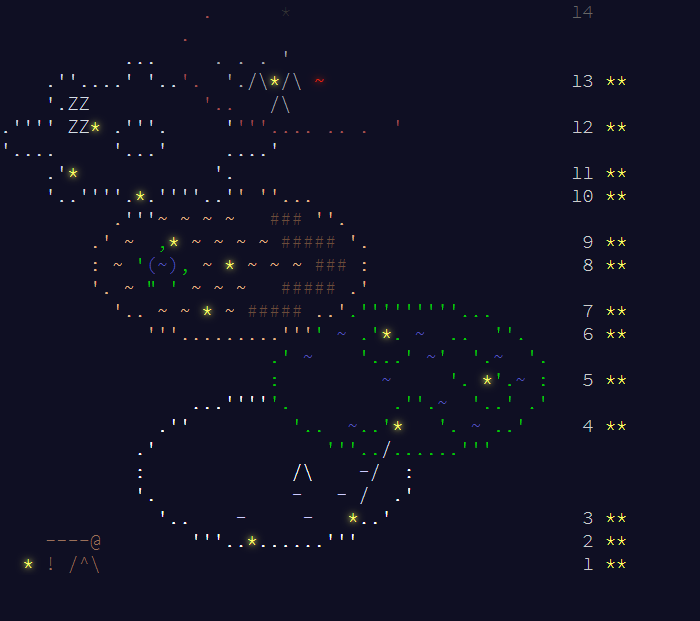
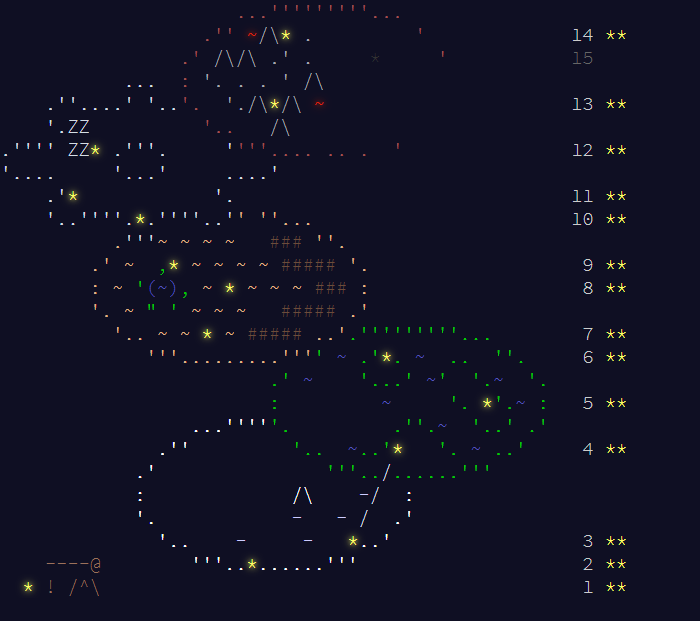
Day 14

diff --git a/2023/main_page/aoc/index_14.html b/2023/main_page/aoc/index_14.html
@@ -1,0 +1,102 @@
+<!DOCTYPE html>
+<html lang="en-us">
+<head>
+<meta charset="utf-8"/>
+<title>Advent of Code 2023</title>
+<!--[if lt IE 9]><script src="html5.js"></script><![endif]-->
+<link href='SourceCodePro.css' rel='stylesheet' type='text/css'>
+<link rel="stylesheet" type="text/css" href="style.css"/>
+<link rel="stylesheet alternate" type="text/css" href="highcontrast.css?0" title="High Contrast"/>
+<link rel="shortcut icon" href="favicon.png"/>
+</head><body>
+<main>
+<style>
+.calendar .calendar-color-l { color:#ccccff; }
+.calendar .calendar-color-g { color:#00cc00; }
+.calendar .calendar-color-n { color:#9b715b; }
+.calendar .calendar-color-a { color:#a5a8af; }
+.calendar .calendar-color-b { color:#5555bb; }
+.calendar .calendar-color-i { color:#a25151; }
+.calendar .calendar-color-s { color:#e3b585; }
+.calendar .calendar-color-w { color:#ffffff; }
+.calendar .calendar-color-k { color:#6b4d3b; }
+.calendar .calendar-color-y { color:#ffff66; text-shadow:0 0 5px #ffff66, 0 0 10px #ffff66; }
+.calendar .calendar-color-v { color:#df2308; text-shadow:0 0 5px #df2308, 0 0 10px #df2308; }
+.calendar .calendar-color-m { color:#d4dde4; }
+</style>
+<pre class="calendar"><a aria-label="Day 14, two stars" href="day_14.html" class="calendar-day14 calendar-verycomplete">                     <span class="calendar-color-i">...'''''''''...</span>                    
+                  <span class="calendar-color-i">.''</span> <span class="calendar-color-v">~</span><span class="calendar-color-a">/\</span><span class="calendar-color-y">*</span> <span class="calendar-color-a">.</span>         <span class="calendar-color-i">'</span>             <span class="calendar-day">14</span> <span class="calendar-mark-complete">*</span><span class="calendar-mark-verycomplete">*</span></a>
+<span aria-hidden="true" class="calendar-day15">                <span class="calendar-color-i">.'</span> <span class="calendar-color-a">/\/\</span> <span class="calendar-color-a">.'</span> <span class="calendar-color-a">.</span>     *     <span class="calendar-color-i">'</span>           <span class="calendar-day">15</span><span id="calendar-countdown"></span><script>
+(function(){
+var countdown = document.getElementById("calendar-countdown");
+if (!countdown) return;
+var server_eta = 84981;
+var key = "2023-15-"+server_eta;
+var now = Math.floor(new Date().getTime()/1000);
+var target = server_eta + now;
+if (sessionStorage) {
+  // if you navigate away and hit the back button, this makes sure the countdown doesn't start from the wrong time
+  var prev_target = sessionStorage.getItem("calendar-target");
+  try { prev_target = JSON.parse(prev_target); } catch(e){}
+  if (prev_target && typeof prev_target === 'object' && prev_target.key === key) {
+    target = prev_target.target;
+  } else {
+    sessionStorage.setItem("calendar-target", JSON.stringify({key:key, target:target+1}));
+  }
+}
+
+var interval = null;
+function update_countdown() {
+  var remaining = Math.ceil(target - new Date().getTime()/1000);
+  if (remaining <= 0) {
+    clearInterval(interval);
+    interval = null;
+    countdown.textContent = "";
+
+    var a = document.createElement("a");
+    a[String.fromCharCode(104,114,101,102)] = "/2023" + String.fromCharCode(47,100,97,121,47) + "15";
+    a.className = "calendar-day15 calendar-day-new";
+    var span = countdown.parentNode;
+    while (span.firstChild) {
+      a.appendChild(span.firstChild);
+    }
+    a.appendChild(document.createTextNode("   "));
+    span.parentNode.insertBefore(a, span);
+    span.parentNode.removeChild(span);
+    countdown.parentNode.removeChild(countdown);
+  } else {
+    var hours = Math.floor(remaining/60/60);
+    remaining -= hours * 60 * 60;
+    var minutes = Math.floor(remaining/60);
+    remaining -= minutes * 60;
+    var seconds = remaining;
+    countdown.textContent = (hours < 10 ? "0" : "") + hours + ":" + (minutes < 10 ? "0" : "") + minutes + ":" + (seconds < 10 ? "0" : "") + seconds;
+  }
+}
+})();
+</script></span>
+<span aria-hidden="true" class="">           <span class="calendar-color-m">...</span>  <span class="calendar-color-i">:</span> <span class="calendar-color-a">'.</span> <span class="calendar-color-a">.</span> <span class="calendar-color-a">.</span> <span class="calendar-color-a">'</span> <span class="calendar-color-a">/\</span>                    </span>
+<a aria-label="Day 13, two stars" href="day_13.html" class="calendar-day13 calendar-verycomplete">    <span class="calendar-color-m">.''....'</span> <span class="calendar-color-m">'..</span><span class="calendar-color-i">'.</span>  <span class="calendar-color-a">'./\</span><span class="calendar-color-y">*</span><span class="calendar-color-a">/\</span> <span class="calendar-color-v">~</span>                      <span class="calendar-day">13</span> <span class="calendar-mark-complete">*</span><span class="calendar-mark-verycomplete">*</span></a>
+<span aria-hidden="true" class="">    <span class="calendar-color-m">'.ZZ</span>          <span class="calendar-color-i">'..</span>   <span class="calendar-color-a">/\</span>                       </span>
+<a aria-label="Day 12, two stars" href="day_12.html" class="calendar-day12 calendar-verycomplete"><span class="calendar-color-m">.''''</span> <span class="calendar-color-m">ZZ</span><span class="calendar-color-y">*</span> <span class="calendar-color-m">.'''.</span>     <span class="calendar-color-m">'</span><span class="calendar-color-i">'''....</span> <span class="calendar-color-i">..</span> <span class="calendar-color-i">.</span>  <span class="calendar-color-i">'</span>               <span class="calendar-day">12</span> <span class="calendar-mark-complete">*</span><span class="calendar-mark-verycomplete">*</span></a>
+<span aria-hidden="true" class=""><span class="calendar-color-m">'....</span>     <span class="calendar-color-m">'...'</span>     <span class="calendar-color-m">....'</span>                        </span>
+<a aria-label="Day 11, two stars" href="day_11.html" class="calendar-day11 calendar-verycomplete">    <span class="calendar-color-m">.'</span><span class="calendar-color-y">*</span>            <span class="calendar-color-m">'.</span>                              <span class="calendar-day">11</span> <span class="calendar-mark-complete">*</span><span class="calendar-mark-verycomplete">*</span></a>
+<a aria-label="Day 10, two stars" href="day_10.html" class="calendar-day10 calendar-verycomplete">    <span class="calendar-color-m">'..''''.</span><span class="calendar-color-y">*</span><span class="calendar-color-m">.''''..'</span><span class="calendar-color-s">'</span> <span class="calendar-color-s">''...</span>                       <span class="calendar-day">10</span> <span class="calendar-mark-complete">*</span><span class="calendar-mark-verycomplete">*</span></a>
+<span aria-hidden="true" class="">          <span class="calendar-color-s">.</span><span class="calendar-color-m">'''</span><span class="calendar-color-s">~</span> <span class="calendar-color-s">~</span> <span class="calendar-color-s">~</span> <span class="calendar-color-s">~</span>   <span class="calendar-color-k">###</span> <span class="calendar-color-s">''.</span>                  </span>
+<a aria-label="Day 9, two stars" href="day_09.html" class="calendar-day9 calendar-verycomplete">        <span class="calendar-color-s">.'</span> <span class="calendar-color-s">~</span>  <span class="calendar-color-g">,</span><span class="calendar-color-y">*</span> <span class="calendar-color-s">~</span> <span class="calendar-color-s">~</span> <span class="calendar-color-s">~</span> <span class="calendar-color-s">~</span> <span class="calendar-color-k">#####</span> <span class="calendar-color-s">'.</span>                  <span class="calendar-day"> 9</span> <span class="calendar-mark-complete">*</span><span class="calendar-mark-verycomplete">*</span></a>
+<a aria-label="Day 8, two stars" href="day_08.html" class="calendar-day8 calendar-verycomplete">        <span class="calendar-color-s">:</span> <span class="calendar-color-s">~</span> <span class="calendar-color-g">'</span><span class="calendar-color-b">(~)</span><span class="calendar-color-g">,</span> <span class="calendar-color-s">~</span> <span class="calendar-color-y">*</span> <span class="calendar-color-s">~</span> <span class="calendar-color-s">~</span> <span class="calendar-color-s">~</span> <span class="calendar-color-k">###</span> <span class="calendar-color-s">:</span>                  <span class="calendar-day"> 8</span> <span class="calendar-mark-complete">*</span><span class="calendar-mark-verycomplete">*</span></a>
+<span aria-hidden="true" class="">        <span class="calendar-color-s">'.</span> <span class="calendar-color-s">~</span> <span class="calendar-color-g">&quot;</span> <span class="calendar-color-g">'</span> <span class="calendar-color-s">~</span> <span class="calendar-color-s">~</span> <span class="calendar-color-s">~</span>   <span class="calendar-color-k">#####</span> <span class="calendar-color-s">.'</span>                </span>
+<a aria-label="Day 7, two stars" href="day_07.html" class="calendar-day7 calendar-verycomplete">          <span class="calendar-color-s">'..</span> <span class="calendar-color-s">~</span> <span class="calendar-color-s">~</span> <span class="calendar-color-y">*</span> <span class="calendar-color-s">~</span> <span class="calendar-color-k">#####</span> <span class="calendar-color-s">..'</span><span class="calendar-color-g">.'''''''''...</span>       <span class="calendar-day"> 7</span> <span class="calendar-mark-complete">*</span><span class="calendar-mark-verycomplete">*</span></a>
+<a aria-label="Day 6, two stars" href="day_06.html" class="calendar-day6 calendar-verycomplete">             <span class="calendar-color-s">'''.........'''</span><span class="calendar-color-g">'</span> <span class="calendar-color-b">~</span> <span class="calendar-color-g">.'</span><span class="calendar-color-y">*</span><span class="calendar-color-g">.</span> <span class="calendar-color-b">~</span>  <span class="calendar-color-g">..</span>  <span class="calendar-color-g">''.</span>    <span class="calendar-day"> 6</span> <span class="calendar-mark-complete">*</span><span class="calendar-mark-verycomplete">*</span></a>
+<span aria-hidden="true" class="">                        <span class="calendar-color-g">.'</span> <span class="calendar-color-b">~</span>    <span class="calendar-color-g">'...'</span> <span class="calendar-color-b">~</span><span class="calendar-color-g">'</span>  <span class="calendar-color-g">'.</span><span class="calendar-color-b">~</span>  <span class="calendar-color-g">'.</span></span>
+<a aria-label="Day 5, two stars" href="day_05.html" class="calendar-day5 calendar-verycomplete">                        <span class="calendar-color-g">:</span>         <span class="calendar-color-b">~</span>     <span class="calendar-color-g">'.</span> <span class="calendar-color-y">*</span><span class="calendar-color-g">'.</span><span class="calendar-color-b">~</span> <span class="calendar-color-g">:</span>  <span class="calendar-day"> 5</span> <span class="calendar-mark-complete">*</span><span class="calendar-mark-verycomplete">*</span></a>
+<span aria-hidden="true" class="">                 <span class="calendar-color-w">...''''</span><span class="calendar-color-g">'.</span>         <span class="calendar-color-g">.''.</span><span class="calendar-color-b">~</span>  <span class="calendar-color-g">'..'</span> <span class="calendar-color-g">.'</span></span>
+<a aria-label="Day 4, two stars" href="day_04.html" class="calendar-day4 calendar-verycomplete">              <span class="calendar-color-w">.''</span>         <span class="calendar-color-g">'..</span>  <span class="calendar-color-b">~</span><span class="calendar-color-g">..'</span><span class="calendar-color-y">*</span>   <span class="calendar-color-g">'.</span> <span class="calendar-color-b">~</span> <span class="calendar-color-g">..'</span>    <span class="calendar-day"> 4</span> <span class="calendar-mark-complete">*</span><span class="calendar-mark-verycomplete">*</span></a>
+<span aria-hidden="true" class="">            <span class="calendar-color-w">.'</span>               <span class="calendar-color-g">'''..</span><span class="calendar-color-m">/</span><span class="calendar-color-g">......'''</span>     </span>
+<span aria-hidden="true" class="">            <span class="calendar-color-w">:</span>             <span class="calendar-color-w">/\</span>    <span class="calendar-color-l">-</span><span class="calendar-color-m">/</span>  <span class="calendar-color-w">:</span>            </span>
+<span aria-hidden="true" class="">            <span class="calendar-color-w">'.</span>            <span class="calendar-color-l">-</span>   <span class="calendar-color-l">-</span> <span class="calendar-color-m">/</span>  <span class="calendar-color-w">.'</span>            </span>
+<a aria-label="Day 3, two stars" href="day_03.html" class="calendar-day3 calendar-verycomplete">              <span class="calendar-color-w">'..</span>    <span class="calendar-color-l">-</span>     <span class="calendar-color-l">-</span>   <span class="calendar-color-y">*</span><span class="calendar-color-w">..'</span>                <span class="calendar-day"> 3</span> <span class="calendar-mark-complete">*</span><span class="calendar-mark-verycomplete">*</span></a>
+<a aria-label="Day 2, two stars" href="day_02.html" class="calendar-day2 calendar-verycomplete">    <span class="calendar-color-n">----@</span>        <span class="calendar-color-w">'''..</span><span class="calendar-color-y">*</span><span class="calendar-color-w">......'''</span>                   <span class="calendar-day"> 2</span> <span class="calendar-mark-complete">*</span><span class="calendar-mark-verycomplete">*</span></a>
+<a aria-label="Day 1, two stars" href="day_01.html" class="calendar-day1 calendar-verycomplete">  <span class="calendar-color-y">*</span> <span class="calendar-color-n">!</span> <span class="calendar-color-n">/^\</span>                                          <span class="calendar-day"> 1</span> <span class="calendar-mark-complete">*</span><span class="calendar-mark-verycomplete">*</span></a>
+</pre>
+</main></body></html>
